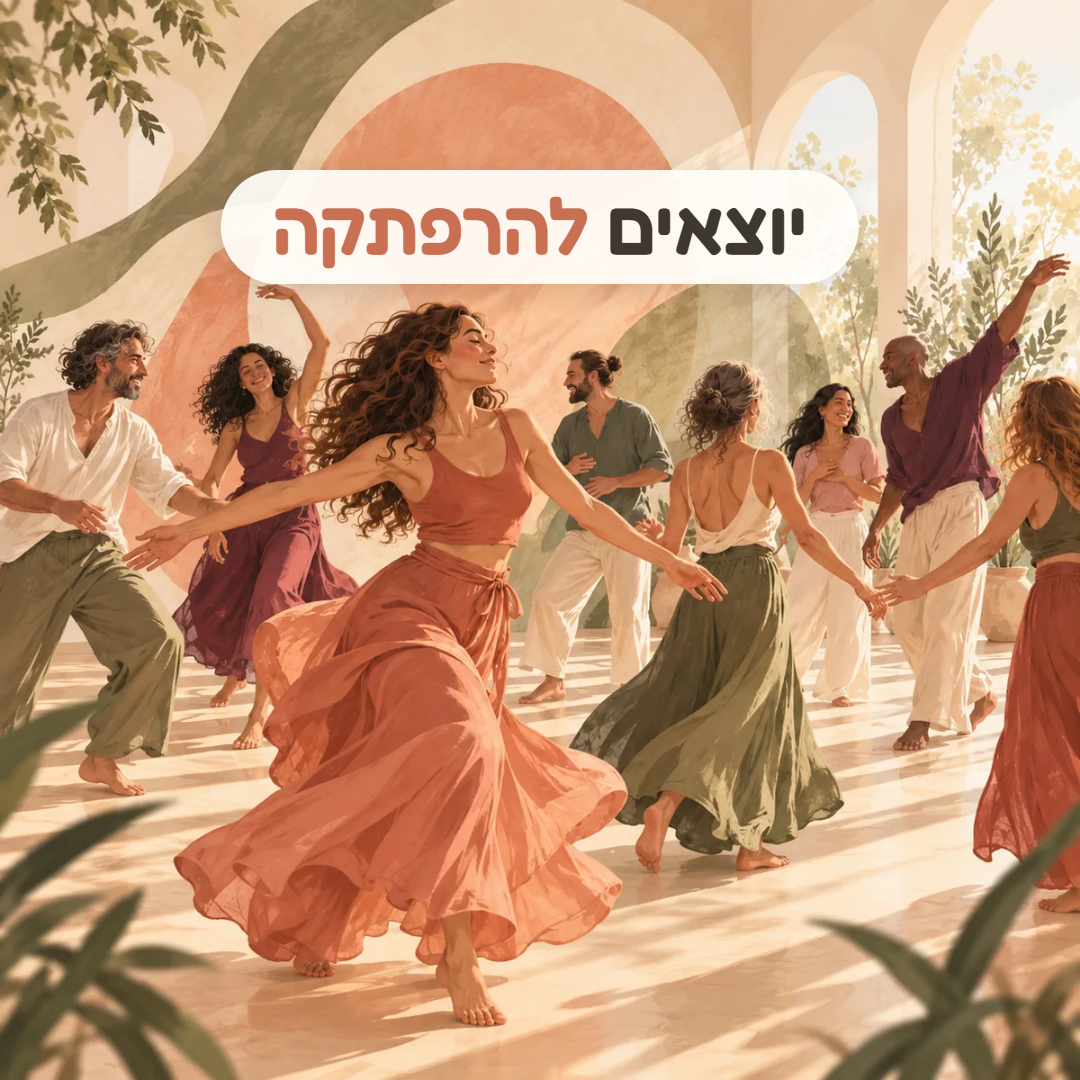
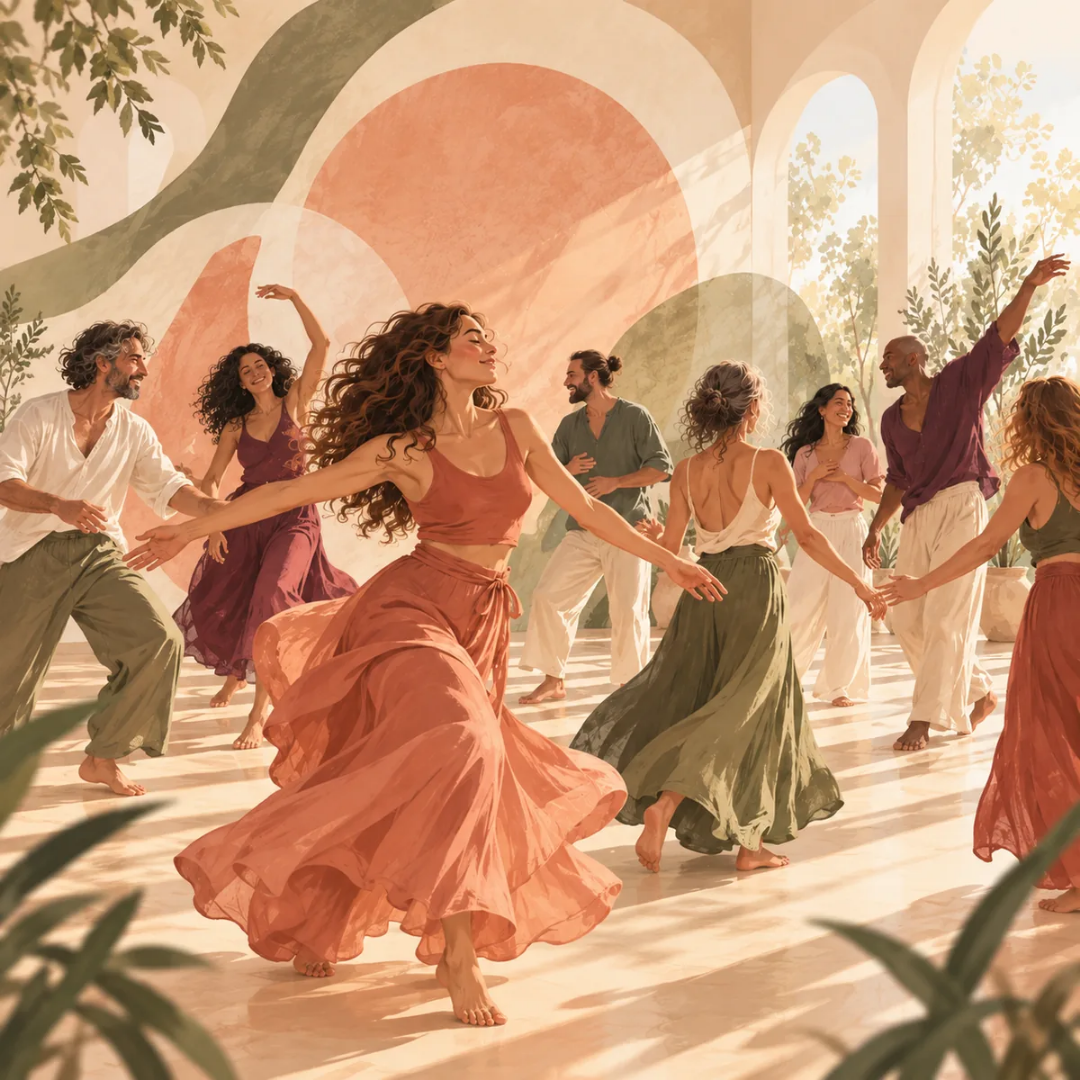
ads/social: קאבר — הטקסט מוזז לאזור שלא מכוסה בתמונת הפרופיל; פרופיל בלי כיתוב

Changed region(s): [[0.1833, 0.1528, 0.7944, 0.275]]

diff --git a/ads/tools/build_social.py b/ads/tools/build_social.py
@@ -20,7 +20,6 @@ img{{position:absolute;inset:0;width:100%;height:100%;object-fit:cover;object-po
 .cap em{{font-style:normal;color:#C96F52}}
 </style><body>
 <img src="{IMG}/biodanza-hero.webp">
-<div class="cap">יוצאים <em>להרפתקה</em></div>
 </body></html>'''
 
 COVER_T = f'''<!doctype html><html lang="he" dir="rtl"><meta charset="utf-8">
@@ -33,13 +32,13 @@ body{{background:#F6EFE4;position:relative;font-family:Rubik,sans-serif;color:#3
 .paper{{position:relative;width:100%;height:100%;border-radius:16px;background:#FFFDF9;overflow:hidden}}
 .c1{{position:absolute;left:-110px;top:-200px;width:540px;height:540px;border-radius:50%;background:#F1E4D3}}
 .c2{{position:absolute;right:-70px;bottom:-110px;width:380px;height:460px;border-radius:190px 190px 0 0;background:rgba(154,154,117,.28)}}
-.c3{{position:absolute;left:300px;bottom:60px;width:130px;height:130px;border-radius:50%;background:#E9B8A4;opacity:.75}}
+.c3{{position:absolute;left:250px;bottom:60px;width:130px;height:130px;border-radius:50%;background:#E9B8A4;opacity:.75}}
 .c4{{position:absolute;right:300px;top:110px;width:56px;height:56px;border-radius:50%;background:#C98D86;opacity:.7}}
 .stamp{{position:absolute;left:330px;top:50px;width:96px;height:114px;background:#F3E3D1;border:9px dotted #FFFDF9;outline:2px solid #E6D3BC;outline-offset:-2px;transform:rotate(4deg);padding:10px}}
 .hand{{position:absolute;right:340px;top:40px;font-family:"Amatic SC";font-weight:700;font-size:118px;line-height:1;color:#B85C40}}
-.txt{{position:absolute;left:0;right:0;top:0;bottom:0;display:flex;flex-direction:column;align-items:center;justify-content:flex-start;text-align:center;padding-top:78px}}
-h1{{font-size:172px;line-height:.98;font-weight:600;letter-spacing:-.01em;color:#C96F52}}
-.sub{{margin-top:10px;font-size:78px;line-height:1.1;font-weight:500;color:#3F382F}}
+.txt{{position:absolute;left:250px;width:700px;top:0;bottom:0;display:flex;flex-direction:column;align-items:center;justify-content:center;text-align:center;padding-bottom:30px}}
+h1{{font-size:150px;line-height:.98;font-weight:600;letter-spacing:-.01em;color:#C96F52}}
+.sub{{margin-top:10px;font-size:72px;line-height:1.1;font-weight:500;color:#3F382F}}
 </style><body>
 <div class="frame"><div class="paper">
 <div class="c1"></div><div class="c2"></div><div class="c3"></div><div class="c4"></div>
